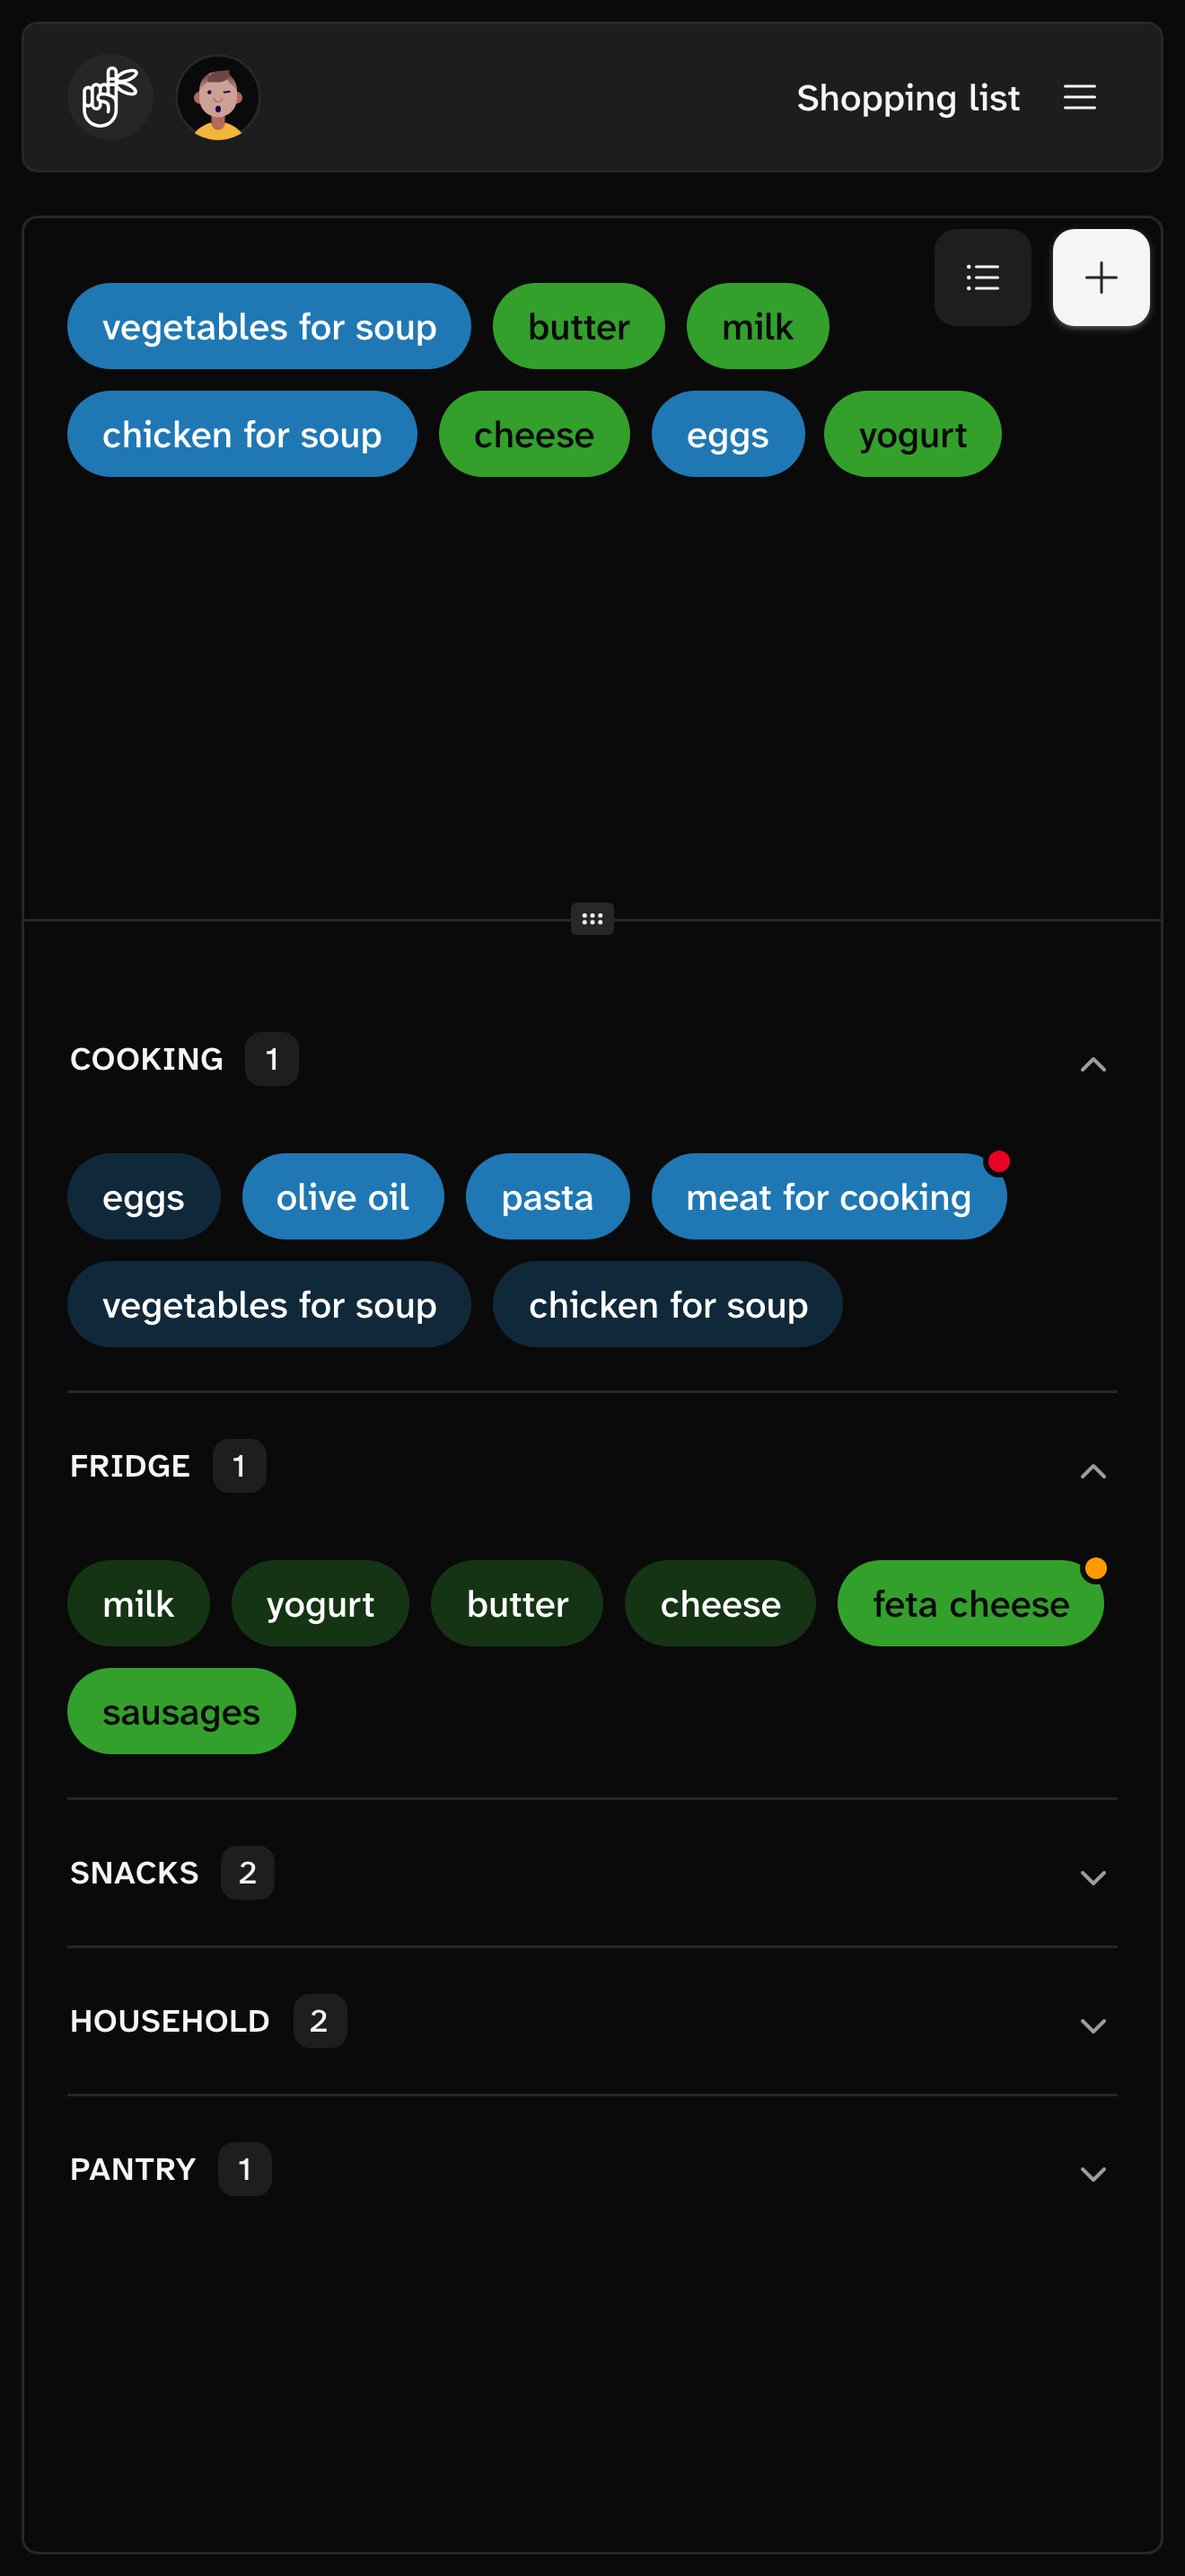
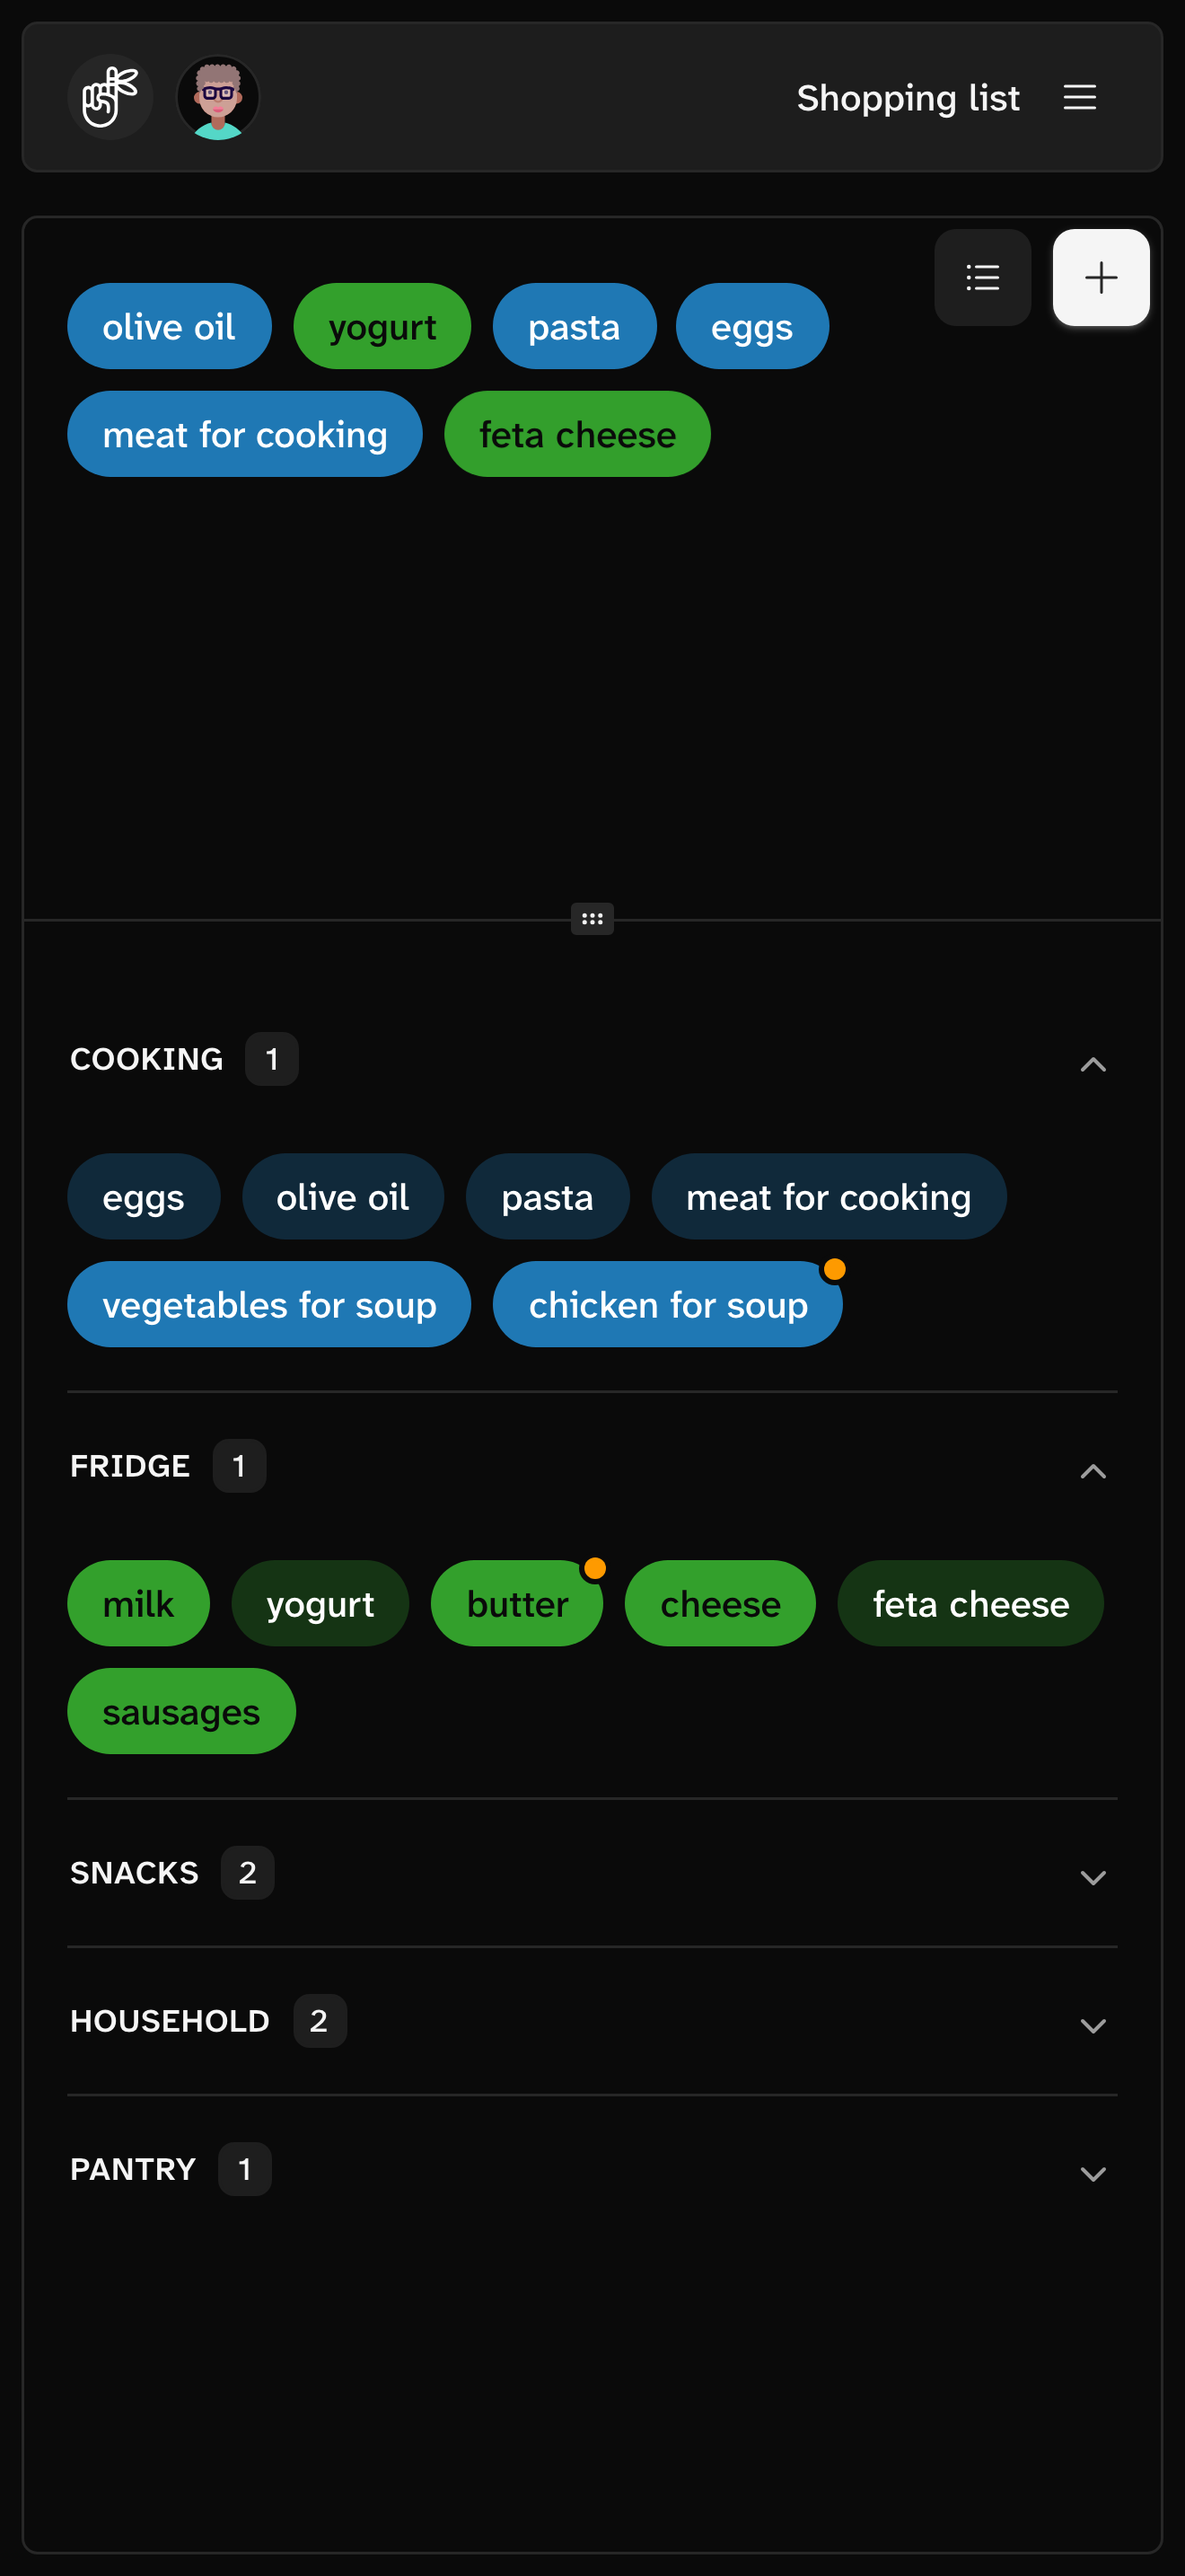
chore: release v5.0.0

diff --git a/pwa/src/views/help.tsx b/pwa/src/views/help.tsx
@@ -168,6 +168,26 @@ const HelpView = () => (
     </section>
 
     <section className="flex flex-col gap-2">
+      <h2 className="font-semibold text-lg">{m.helpSyncSection()}</h2>
+      <ul className="flex list-disc flex-col gap-1 pl-5 text-muted-foreground marker:text-muted-foreground">
+        <li>
+          {m.helpSyncWherePrefix()}{" "}
+          <Link
+            className="text-primary underline underline-offset-4 hover:opacity-90"
+            to="/profile"
+          >
+            {m.navProfile()}
+          </Link>
+          {m.helpSyncWhereMiddle()} <strong>{m.syncTitle()}</strong>{" "}
+          {m.helpSyncWhereSuffix()}
+        </li>
+        <li>{m.helpSyncWhat()}</li>
+        <li>{m.helpSyncOffline()}</li>
+        <li>{m.helpSyncShared()}</li>
+      </ul>
+    </section>
+
+    <section className="flex flex-col gap-2">
       <h2 className="font-semibold text-lg">{m.helpYourDataSection()}</h2>
       <ul className="flex list-disc flex-col gap-1 pl-5 text-muted-foreground marker:text-muted-foreground">
         <li>{m.helpDataLocal()}</li>

diff --git a/pwa/src/views/about.tsx b/pwa/src/views/about.tsx
@@ -36,6 +36,10 @@ const AboutView = () => (
           <strong>{m.navProfile()}</strong>
           {m.aboutFeatureProfileDesc()}
         </li>
+        <li>
+          <strong>{m.aboutFeatureSync()}</strong>
+          {m.aboutFeatureSyncDesc()}
+        </li>
         <li>{m.aboutFeatureList()}</li>
         <li>
           <strong>{m.aboutFeatureQuickAdd()}</strong>
@@ -97,7 +101,7 @@ const AboutView = () => (
       <p className="text-muted-foreground text-sm">{m.aboutComingSubtitle()}</p>
       <ul className="flex list-disc flex-col gap-1 pl-5 text-muted-foreground marker:text-muted-foreground">
         <li>{m.aboutComingAttributes()}</li>
-        <li>{m.aboutComingMultiUser()}</li>
+        <li>{m.aboutComingNotifications()}</li>
       </ul>
     </section>
 

diff --git a/pwa/CHANGELOG.md b/pwa/CHANGELOG.md
@@ -2,6 +2,27 @@
 
 All notable changes to Remindit will be documented in this file.
 
+## v5.0.0 — 2026-09-03
+
+_Your list, on every device — sign in to sync, or share a list with the people you shop with._
+
+### ✨ New Features
+
+- **Sync across devices**: sign in from Profile → Sync & account and your list, catalog and history stay in step across your phone, tablet and browser. The app keeps working fully offline — an account is optional, sync is an extra
+- **Shared lists**: shop together — invite someone by their username and your list becomes a shared one. Everyone sees the same items in real time, you can switch between your lists, and members can leave (or be removed) at any time
+- **Feedback, one tap away**: a new link in the footer takes you straight to our feedback site (where available)
+
+### 🔧 Improvements
+
+- **About & Help stay in sync**: both now explain syncing and shared lists, and the "coming soon" list points at notifications next
+- **Clearer sync messages**: connection hiccups now tell you what actually happened instead of showing a raw error
+- **Stays signed in**: sessions quietly renew themselves in the background, so you aren't logged out after a couple of weeks
+
+### 🐛 Fixes
+
+- **More reliable syncing**: edits made right after receiving someone else's changes are no longer silently skipped, removed items stay removed, and reconnecting after an outage picks up exactly where it left off
+- **Calmer reconnects**: going offline and back no longer stacks up duplicate background work
+
 ## v4.4.0 — 2026-09-01
 
 _Make it yours — pick an avatar you like, and bring your data with you wherever you go._

diff --git a/pwa/docs/DEPLOY.md b/pwa/docs/DEPLOY.md
@@ -49,4 +49,14 @@ server {
 
 - The app is a PWA — service worker is generated automatically during build
 - All assets are fingerprinted, so long cache headers are safe
-- No environment variables required at runtime (local-first app)
+- Environment is build-time only, from the repo's root `.env` (see root
+  AGENTS.md, D9): the production build inlines `PUBLIC_BFF_URL` — required for
+  sync/sign-in to reach the backend; without it, sync falls back to a localhost
+  URL that will not work in production — and optionally `PUBLIC_FEEDBACK_URL`
+  (footer feedback link, hidden when unset). The root `.env` reaches the build
+  via Bun's automatic `.env` loading when running the root scripts (`bun run
+  build` also passes `--env-file=../.env` explicitly); `scripts/deploy.sh`
+  itself runs a plain `bun run build` and loads no env file, so deploy from the
+  repo root. No runtime environment variables are needed.
+- The app remains fully usable without a backend — local-first, and sync is
+  opt-in.
